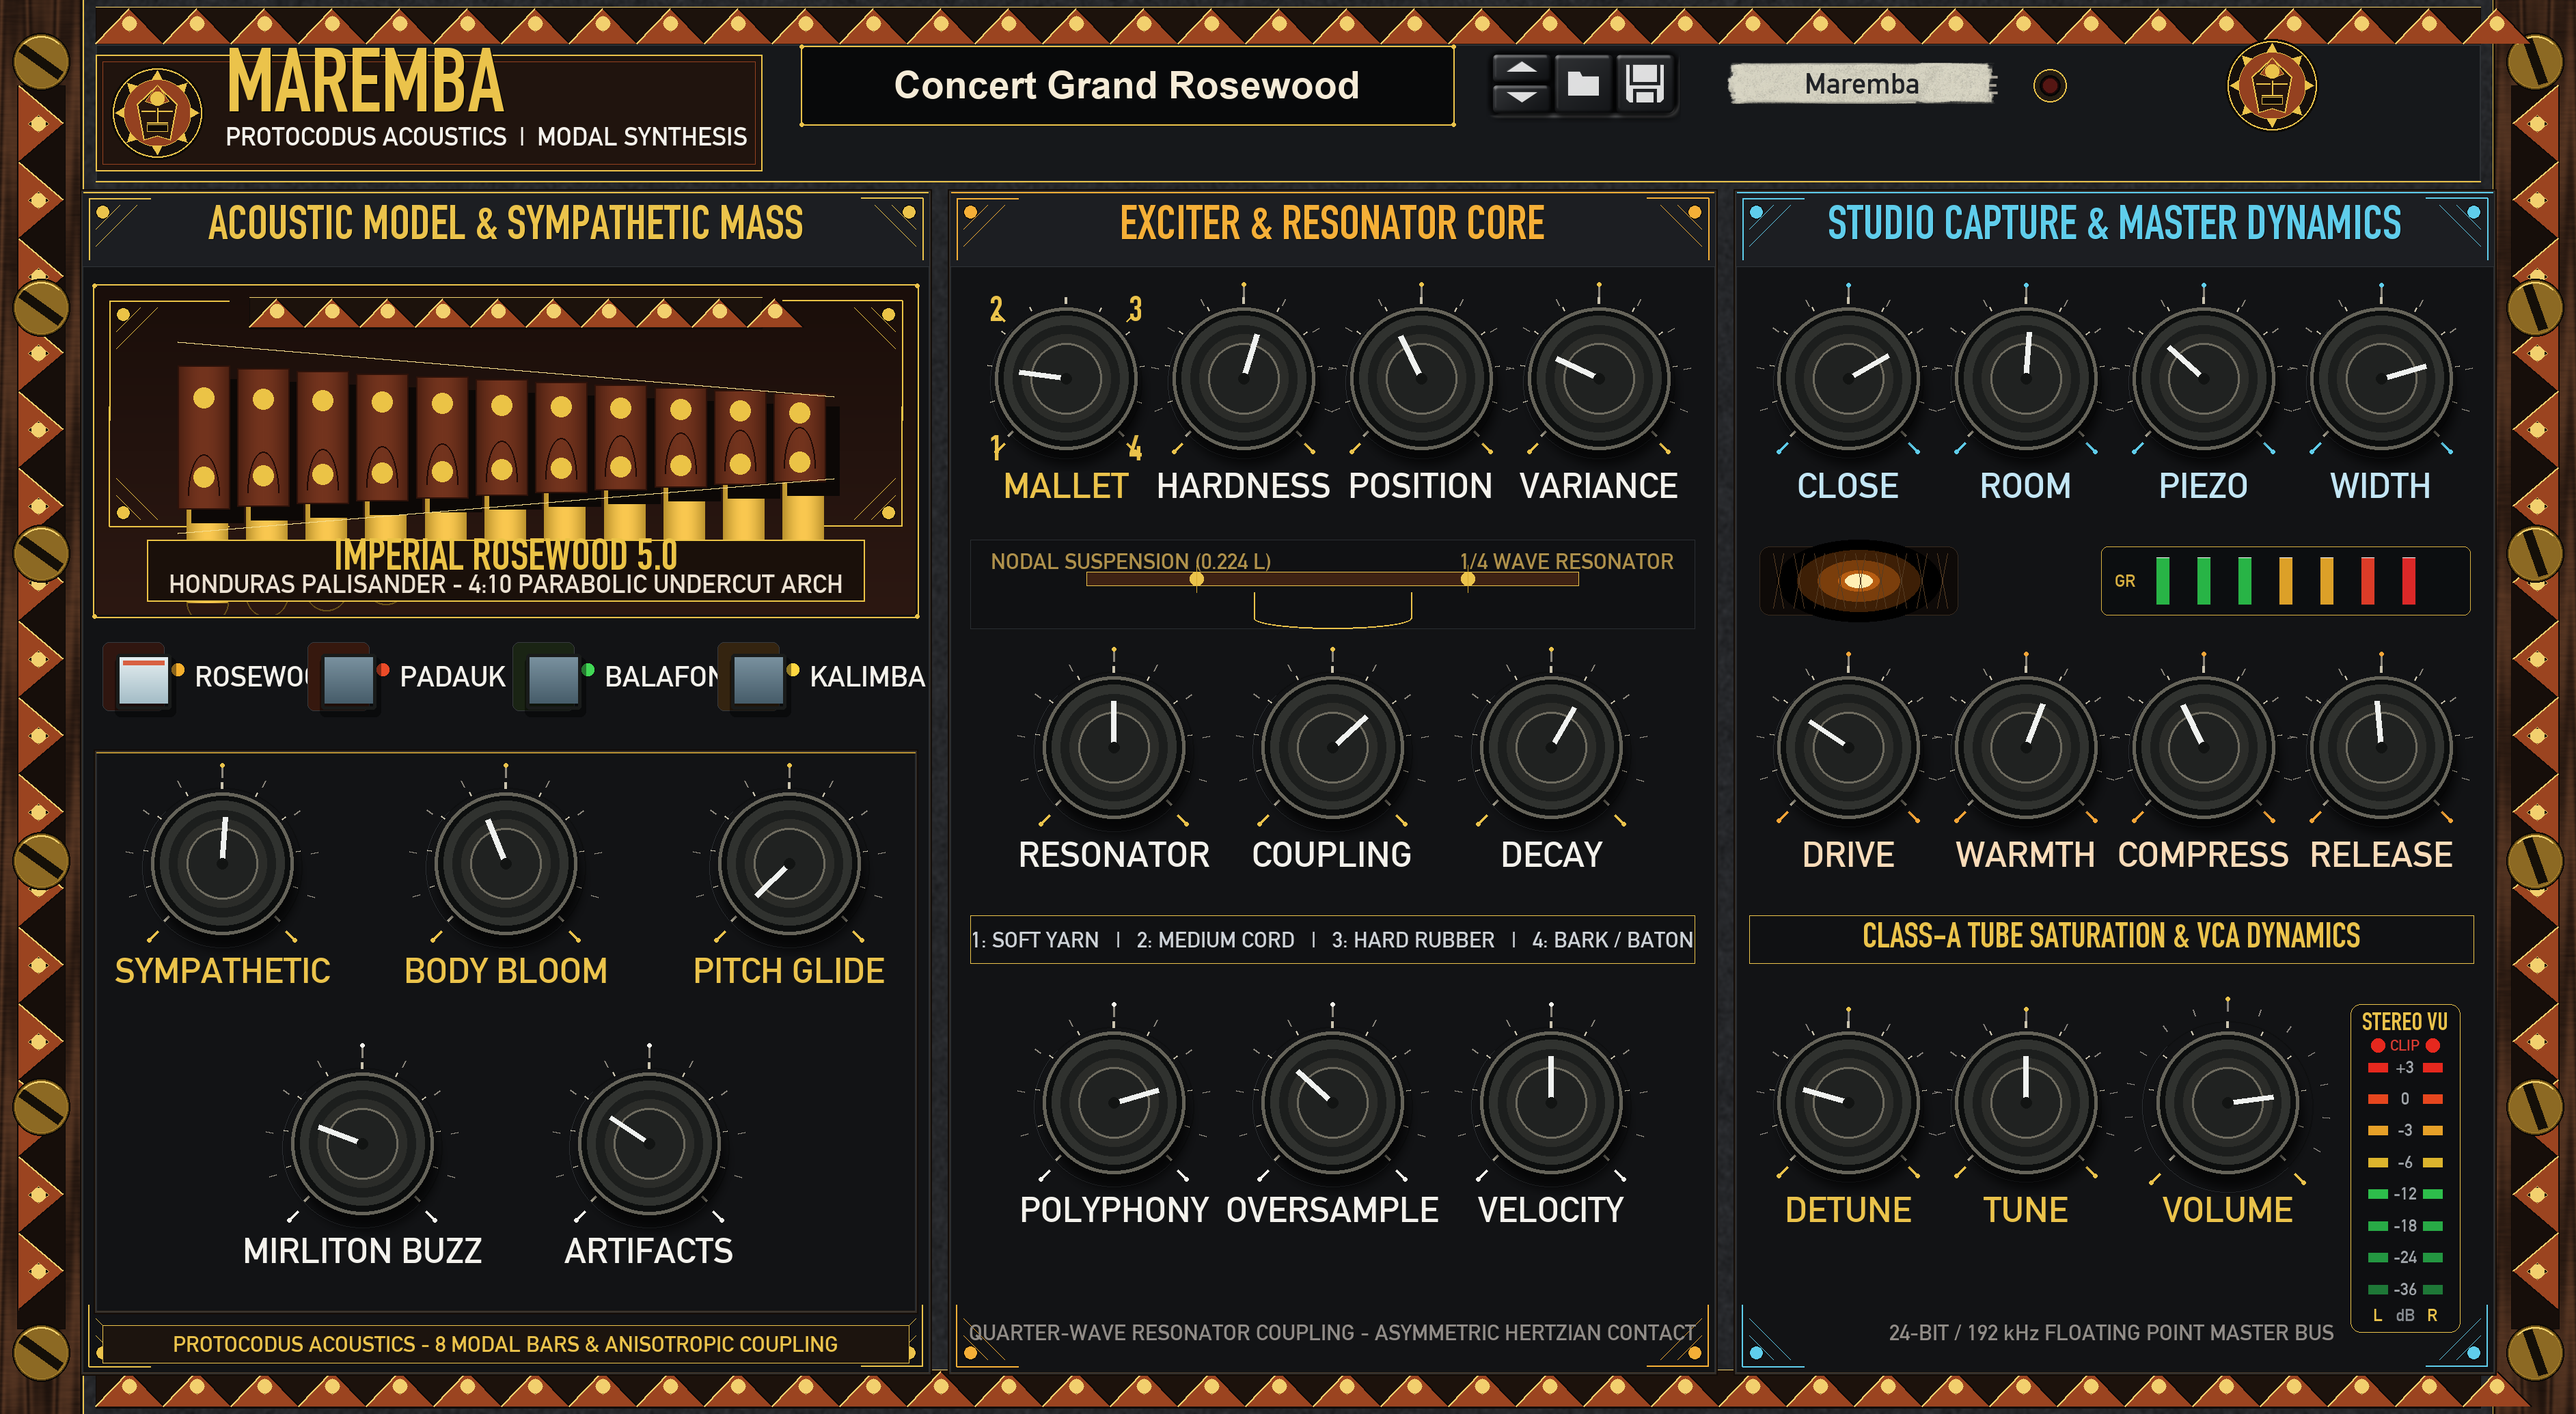
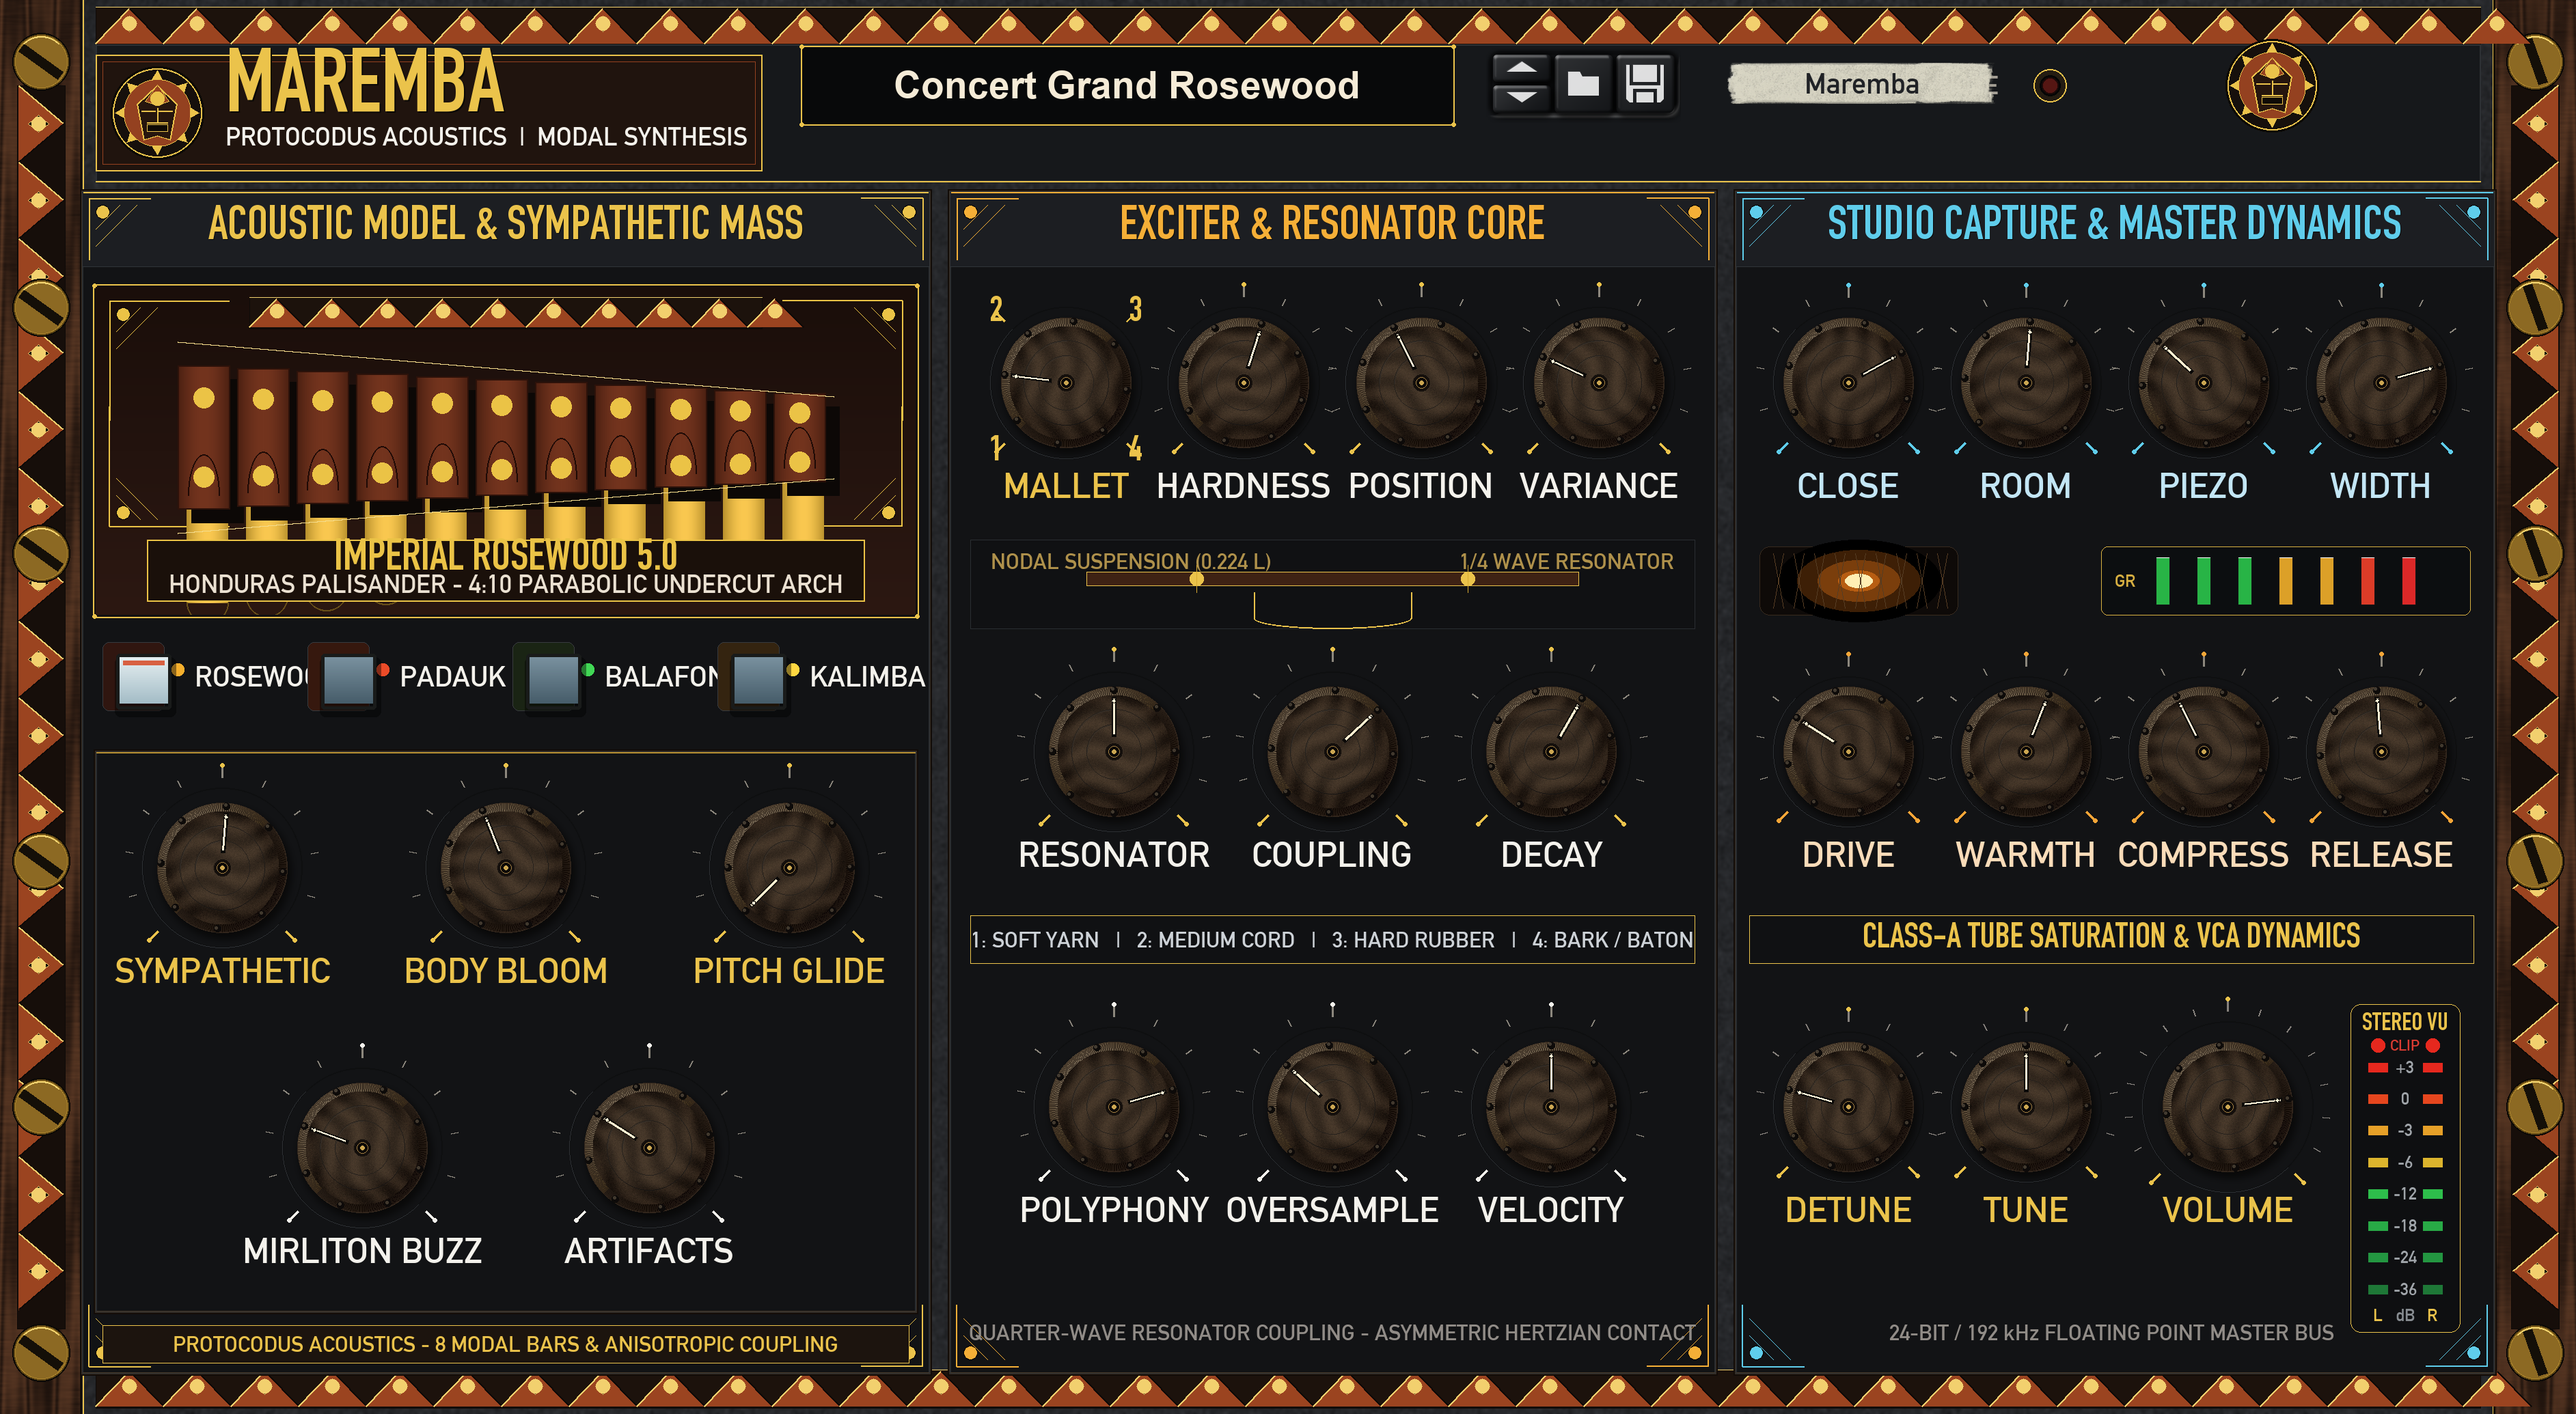
feat(gui): render primitive hand-carved African hardwood and volcanic stone knobs

diff --git a/Examples/Maremba/Design/render_knob.py b/Examples/Maremba/Design/render_knob.py
@@ -1,0 +1,210 @@
+#!/usr/bin/env python3
+"""
+render_knob.py
+Renders authentic primitive hand-carved African hardwood / volcanic stone analog knobs
+for Maremba Rack Extension.
+
+Output:
+- GUI/Output/HD/Knob.png: 260 x 16380 (63 frames of 260x260, strictly divisible by 5)
+- GUI2D/Knob.png: 52 x 3276 (63 frames of 52x52, scaled for 1x standard resolution)
+"""
+
+import math
+import os
+import sys
+import numpy as np
+from PIL import Image, ImageDraw, ImageFilter
+
+SCRIPT_DIR = os.path.dirname(os.path.abspath(__file__))
+PROJECT_DIR = os.path.dirname(SCRIPT_DIR)
+HD_DIR = os.path.join(PROJECT_DIR, "GUI", "Output", "HD")
+GUI2D_DIR = os.path.join(PROJECT_DIR, "GUI2D")
+
+TOTAL_FRAMES = 63
+FRAME_SIZE_HD = 260
+FRAME_SIZE_2D = 52
+
+
+def render_primitive_knob_frame(frame_idx, total_frames=TOTAL_FRAMES, size=FRAME_SIZE_HD):
+    """
+    Renders one frame of a primitive hand-carved African wood/stone knob.
+    Rotation angle spans 270 degrees (-135 deg at frame 0, +135 deg at frame 62).
+    """
+    angle_deg = -135.0 + (frame_idx / float(total_frames - 1)) * 270.0
+    angle_rad = math.radians(angle_deg - 90.0) # 0 rad = 12 o'clock (top)
+
+    im = Image.new("RGBA", (size, size), (0, 0, 0, 0))
+    cx, cy = size / 2.0, size / 2.0
+
+    # 1. Soft Realistic Drop Shadow (Fixed light source from top-left ~135 deg)
+    shadow_im = Image.new("RGBA", (size, size), (0, 0, 0, 0))
+    s_draw = ImageDraw.Draw(shadow_im)
+    s_draw.ellipse([cx - 96 + 4, cy - 96 + 7, cx + 96 + 4, cy + 96 + 7], fill=(6, 5, 4, 195))
+    shadow_im = shadow_im.filter(ImageFilter.GaussianBlur(radius=5.5))
+    im = Image.alpha_composite(im, shadow_im)
+
+    # 2. Outer Primitive Cylindrical Rim (R = 95 down to R = 83)
+    R_outer = 95
+    R_inner = 83
+
+    rim_im = Image.new("RGBA", (size, size), (0, 0, 0, 0))
+    rim_draw = ImageDraw.Draw(rim_im)
+
+    # Cylindrical body gradient with dark African ironwood / volcanic basalt tones
+    for r in range(R_outer, R_inner - 1, -1):
+        t = (r - R_inner) / float(R_outer - R_inner)
+        cr = int(32 + 18 * t)
+        cg = int(24 + 14 * t)
+        cb = int(18 + 10 * t)
+        rim_draw.ellipse([cx - r, cy - r, cx + r, cy + r], fill=(cr, cg, cb, 255))
+
+    # Rim Lighting: Highlight on top-left (225 deg math), Shadow on bottom-right
+    for deg in range(360):
+        rad = math.radians(deg)
+        light = math.cos(rad - math.radians(225))
+        for dr in range(R_inner, R_outer):
+            t = (dr - R_inner) / float(R_outer - R_inner)
+            px = cx + dr * math.cos(rad)
+            py = cy + dr * math.sin(rad)
+            if light > 0:
+                h = int(60 * light * (1.0 - t * 0.4))
+                rim_draw.point((px, py), fill=(min(255, 45 + h + 15), min(255, 35 + h + 10), min(255, 25 + h), 255))
+            else:
+                s = int(18 * abs(light))
+                rim_draw.point((px, py), fill=(max(10, 32 - s), max(8, 24 - s), max(6, 18 - s), 255))
+
+    # 3. Primitive Hand-Carved Thumb Grip Notches (8 chiseled notches around perimeter)
+    for i in range(8):
+        notch_angle = angle_rad + i * (2.0 * math.pi / 8.0)
+        nx = cx + (R_outer - 5) * math.cos(notch_angle)
+        ny = cy + (R_outer - 5) * math.sin(notch_angle)
+        rim_draw.ellipse([nx - 5, ny - 5, nx + 5, ny + 5], fill=(14, 11, 9, 210))
+        # Sunward highlight on notch lip
+        hx = nx + 2.0 * math.cos(math.radians(225))
+        hy = ny + 2.0 * math.sin(math.radians(225))
+        rim_draw.ellipse([hx - 2, hy - 2, hx + 2, hy + 2], fill=(110, 95, 75, 140))
+
+    im = Image.alpha_composite(im, rim_im)
+
+    # 4. Top Face (R = 83) with Rotating Hand-Carved Wood/Stone Grain
+    face_size = R_inner * 2 + 4
+    face_arr = np.zeros((face_size, face_size, 4), dtype=np.uint8)
+
+    fcx, fcy = face_size / 2.0, face_size / 2.0
+    y, x = np.ogrid[:face_size, :face_size]
+    r_map = np.sqrt((x - fcx)**2 + (y - fcy)**2)
+    mask = r_map <= R_inner
+
+    # Deterministic procedural grain aligned with rotating knob angle
+    cos_a = math.cos(angle_rad)
+    sin_a = math.sin(angle_rad)
+    x_rot = (x - fcx) * cos_a - (y - fcy) * sin_a
+    y_rot = (x - fcx) * sin_a + (y - fcy) * cos_a
+
+    # Organic wood growth rings + fibers
+    rings = np.sin(x_rot * 0.16 + np.sin(y_rot * 0.05) * 2.0) * 12.0
+    # Fine grain noise
+    np.random.seed(int(abs(angle_deg) * 17) % 10000 + 42)
+    fiber = np.random.normal(0, 4.5, (face_size, face_size))
+
+    # Subtle convex dome shading
+    dome = (1.0 - (r_map / float(R_inner))**2) * 8.0
+
+    vr = np.clip(38 + rings + fiber + dome, 18, 75).astype(np.uint8)
+    vg = np.clip(28 + rings * 0.8 + fiber * 0.8 + dome * 0.8, 14, 58).astype(np.uint8)
+    vb = np.clip(20 + rings * 0.6 + fiber * 0.6 + dome * 0.6, 10, 45).astype(np.uint8)
+
+    face_arr[mask, 0] = vr[mask]
+    face_arr[mask, 1] = vg[mask]
+    face_arr[mask, 2] = vb[mask]
+    face_arr[mask, 3] = 255
+
+    face_disk = Image.fromarray(face_arr)
+    im.alpha_composite(face_disk, (int(cx - fcx), int(cy - fcy)))
+
+    draw = ImageDraw.Draw(im)
+
+    # Subtle concentric artisan scoring rings at r = 62 and r = 40
+    for ring_r in [62, 40]:
+        draw.ellipse([cx - ring_r, cy - ring_r, cx + ring_r, cy + ring_r], outline=(18, 14, 11, 140), width=1)
+        draw.arc([cx - ring_r + 1, cy - ring_r + 1, cx + ring_r + 1, cy + ring_r + 1], 180, 270, fill=(75, 60, 45, 100), width=1)
+
+    # Top face ambient light sheen from top-left (fixed lighting)
+    sheen = Image.new("RGBA", (size, size), (0, 0, 0, 0))
+    s_dr = ImageDraw.Draw(sheen)
+    s_dr.ellipse([cx - R_inner + 8, cy - R_inner + 6, cx + R_inner - 14, cy + R_inner - 20], fill=(140, 120, 95, 42))
+    sheen = sheen.filter(ImageFilter.GaussianBlur(radius=8))
+    im = Image.alpha_composite(im, sheen)
+    draw = ImageDraw.Draw(im)
+
+    # 5. Hand-Carved Artisan Indicator Groove
+    # A carved channel in the wood/stone filled with aged bone ivory & terracotta pigment
+    r_start = 22
+    r_end = 80
+
+    # Deep carved shadow channel
+    for w, a in [(7, 160), (5, 220), (3, 255)]:
+        x1 = cx + r_start * math.cos(angle_rad)
+        y1 = cy + r_start * math.sin(angle_rad)
+        x2 = cx + r_end * math.cos(angle_rad)
+        y2 = cy + r_end * math.sin(angle_rad)
+        draw.line([(x1, y1), (x2, y2)], fill=(10, 8, 6, a), width=w)
+
+    # Inlaid Aged Ivory / Bone Pigment with warm gold tone
+    x1_inlay = cx + (r_start + 4) * math.cos(angle_rad)
+    y1_inlay = cy + (r_start + 4) * math.sin(angle_rad)
+    x2_inlay = cx + (r_end - 2) * math.cos(angle_rad)
+    y2_inlay = cy + (r_end - 2) * math.sin(angle_rad)
+    draw.line([(x1_inlay, y1_inlay), (x2_inlay, y2_inlay)], fill=(245, 230, 195, 255), width=3)
+    # Bright center core
+    draw.line([(x1_inlay, y1_inlay), (x2_inlay, y2_inlay)], fill=(255, 250, 235, 255), width=1)
+
+    # Hand-carved diamond / pip indicator head at outer edge (r = 74)
+    pip_x = cx + 74 * math.cos(angle_rad)
+    pip_y = cy + 74 * math.sin(angle_rad)
+    d_sz = 3.5
+    draw.polygon([
+        (pip_x + d_sz * math.cos(angle_rad), pip_y + d_sz * math.sin(angle_rad)),
+        (pip_x - d_sz * math.sin(angle_rad), pip_y + d_sz * math.cos(angle_rad)),
+        (pip_x - d_sz * math.cos(angle_rad), pip_y - d_sz * math.sin(angle_rad)),
+        (pip_x + d_sz * math.sin(angle_rad), pip_y - d_sz * math.cos(angle_rad)),
+    ], fill=(255, 245, 215, 255), outline=(20, 14, 10, 200))
+
+    # 6. Central Carved Bushing / Rosette Core (R = 13)
+    draw.ellipse([cx - 13, cy - 13, cx + 13, cy + 13], fill=(20, 15, 12), outline=(60, 48, 36), width=1)
+    draw.ellipse([cx - 8, cy - 8, cx + 8, cy + 8], fill=(12, 9, 7), outline=(160, 125, 65), width=1)
+    draw.ellipse([cx - 3, cy - 3, cx + 3, cy + 3], fill=(215, 175, 85, 240))
+
+    return im
+
+
+def generate_knob_filmstrip():
+    print(f">>> Rendering {TOTAL_FRAMES}-frame Primitive Wood/Stone Knob Filmstrip <<<")
+    total_height_hd = FRAME_SIZE_HD * TOTAL_FRAMES
+    filmstrip_hd = Image.new("RGBA", (FRAME_SIZE_HD, total_height_hd), (0, 0, 0, 0))
+
+    for i in range(TOTAL_FRAMES):
+        frame = render_primitive_knob_frame(i, TOTAL_FRAMES, FRAME_SIZE_HD)
+        filmstrip_hd.paste(frame, (0, i * FRAME_SIZE_HD))
+        if (i + 1) % 15 == 0 or (i + 1) == TOTAL_FRAMES:
+            print(f"  Rendered {i + 1}/{TOTAL_FRAMES} frames...")
+
+    # Save HD Knob filmstrip (260 x 16380)
+    os.makedirs(HD_DIR, exist_ok=True)
+    hd_path = os.path.join(HD_DIR, "Knob.png")
+    filmstrip_hd.save(hd_path, "PNG", optimize=True)
+    print(f"  Saved HD filmstrip: {hd_path} ({filmstrip_hd.size[0]}x{filmstrip_hd.size[1]})")
+
+    # Downsample for 2D standard resolution (52 x 3276) using high-quality Lanczos filter
+    os.makedirs(GUI2D_DIR, exist_ok=True)
+    total_height_2d = FRAME_SIZE_2D * TOTAL_FRAMES
+    filmstrip_2d = filmstrip_hd.resize((FRAME_SIZE_2D, total_height_2d), Image.LANCZOS)
+    gui2d_path = os.path.join(GUI2D_DIR, "Knob.png")
+    filmstrip_2d.save(gui2d_path, "PNG", optimize=True)
+    print(f"  Saved 2D filmstrip: {gui2d_path} ({filmstrip_2d.size[0]}x{filmstrip_2d.size[1]})")
+
+    print(">>> Primitive Wood/Stone Knob Filmstrip Generation Complete! <<<")
+
+
+if __name__ == "__main__":
+    generate_knob_filmstrip()
